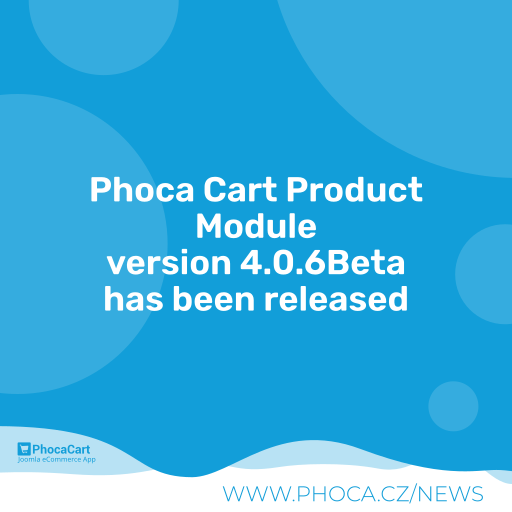
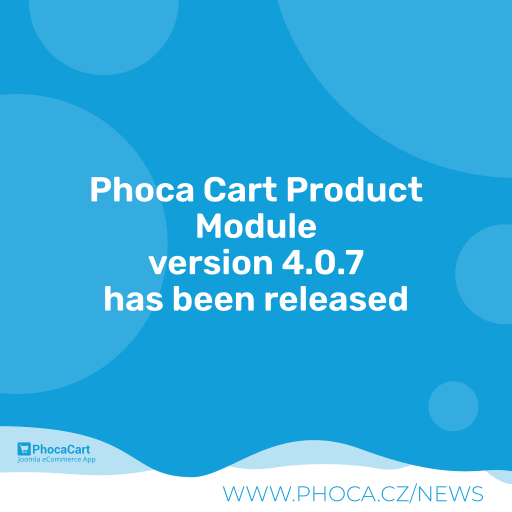
4.0.7

Changed region(s): [[0.1875, 0.4688, 0.8125, 0.5625]]

diff --git a/mod_phocacart_product.php b/mod_phocacart_product.php
@@ -64,7 +64,7 @@ $pc['display_star_rating']			= $pCom->get( 'display_star_rating', 0 );
 $t['switch_image_category_items']	= $pCom->get( 'switch_image_category_items', 0 );
 $t['image_width_cat']				= $pCom->get( 'image_width_cat', '' );
 $t['image_height_cat']				= $pCom->get( 'image_height_cat', '' );
-$t['lazy_load_category_items']		= $pCom->get( 'lazy_load_category_items', 0 );
+$t['lazy_load_category_items']		= $pCom->get( 'lazy_load_category_items', 2 );
 $t['medium_image_width']			= $pCom->get( 'medium_image_width', 300 );
 $t['medium_image_height']			= $pCom->get( 'medium_image_height', 200 );
 $t['display_webp_images']			= $pCom->get( 'display_webp_images', 0 );

diff --git a/README.MD b/README.MD
@@ -60,7 +60,7 @@ Phoca Cart Product Module - a Joomla! CMS module which displays Phoca Cart produ
 
 ## Version (Joomla! 4.x)
 
-4.0.6Beta
+4.0.7
 
 
 
